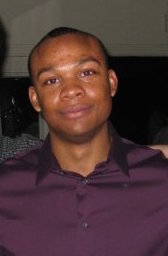
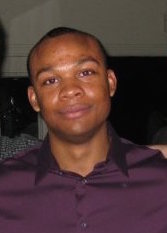
Added evan and other dudes

diff --git a/index.html b/index.html
@@ -20,13 +20,8 @@
 				<!-- Logo -->
 					<h1 id="logo">Ransom Wedding </h1>
 
-
-					
-
     <!--<script type="text/javascript" src="http://ajax.googleapis.com/ajax/libs/jquery/1.9.1/jquery.min.js"></script> -->
     <!--<script type="text/javascript" src="jquery.downCount.js"></script>-->
-
-    
 
 				<!-- Nav -->
 					<nav id="nav">
@@ -144,7 +139,7 @@ PHOENIX
 
 							<div class="row 0% images">
 								<div class="6u 12u(mobile)"><h3>Bridesmaid: Lindsey Hilscher</h3><a href="images/lindsey.JPG" class="image fit from-left"><img src="images/lindsey.JPG" title="Bridesmaid: Lindsey Hilscher" alt="" /></a></div>
-								<div class="6u 12u(mobile)"><a href="images/fulls/06.jpg" class="image fit from-right"><img src="images/thumbs/06.jpg" title="Amet ut" alt="" /></a></div>
+								<div class="6u 12u(mobile)"> <h3>Groomsman: Evan Eurich</h3><a href="images/evan.jpg" class="image fit from-right"><img src="images/evan.jpg" title="Groomsman: Evan Eurich" alt="" /></a></div>
 							</div>
 
 							<div class="row 0% images">
